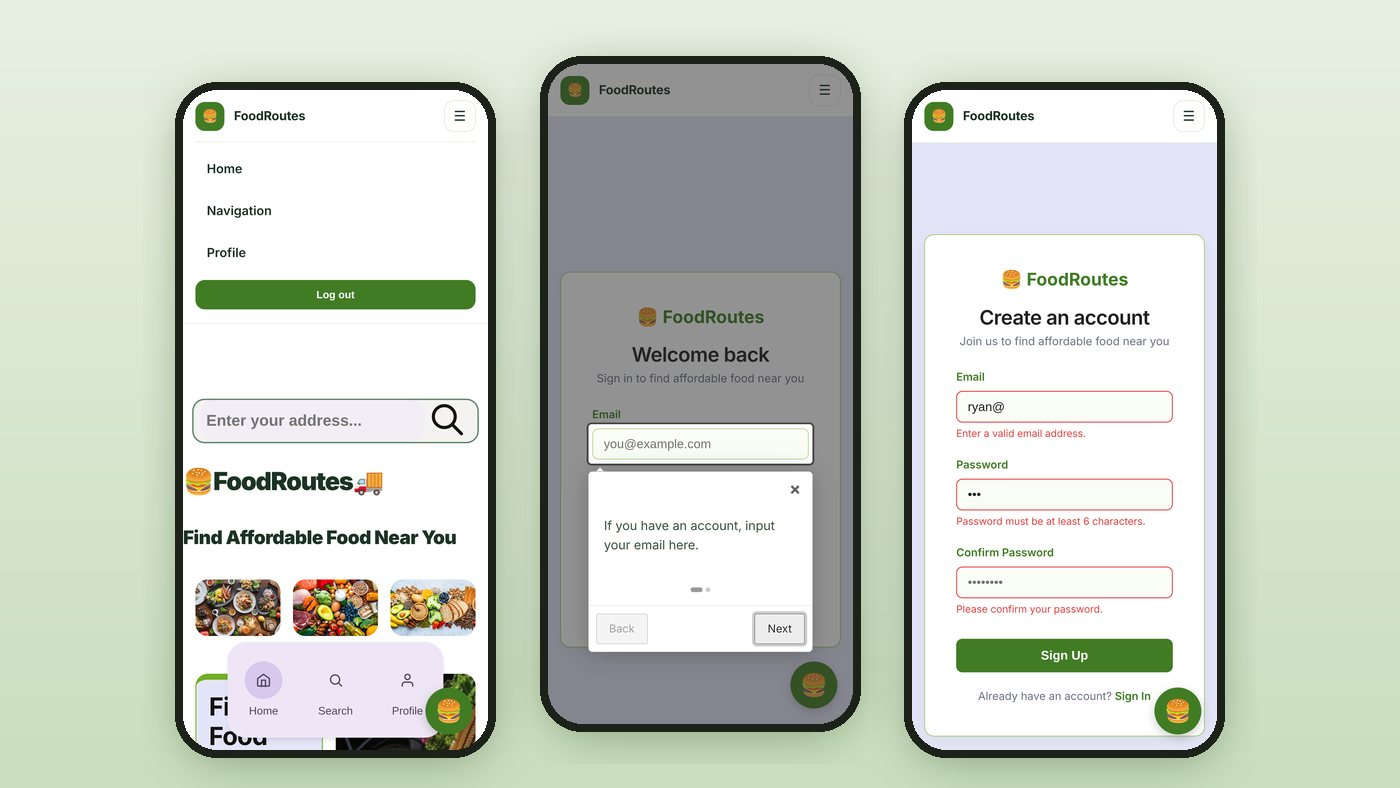
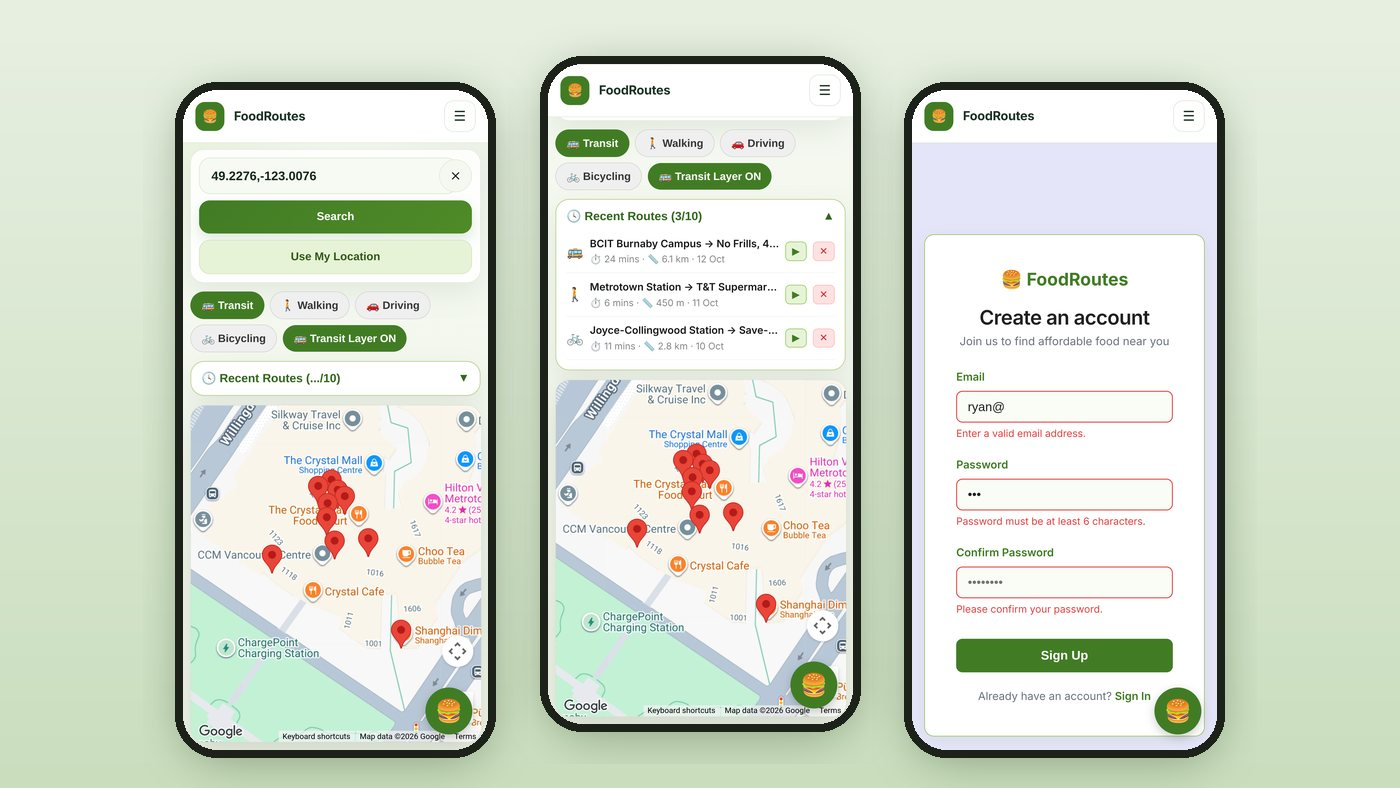
FoodRoutes: add map and saved-routes screenshots, new cover
Two phone screenshots from the real map page: nearby grocery stores
around Metrotown with the travel-mode buttons and transit-layer toggle,
and the saved-routes panel (shown with example routes, since the team's
Supabase project is gone). The cover now leads with them. A drawn route
isn't shown: the available Maps key has Directions blocked until billing
is enabled on its Google Cloud project.

Changed region(s): [[0.1229, 0.0609, 0.6143, 0.9746], [0.1843, 0.1218, 0.215, 0.1523]]

diff --git a/projects/foodroutes.html b/projects/foodroutes.html
@@ -249,7 +249,7 @@
           <figure class="case-cover" data-vt="foodroutes">
             <img
               src="../assets/fr-cover.jpg"
-              alt="Three FoodRoutes phone screens: the signed-in menu over the home page, the login page with a guided-tour tooltip, and the sign-up form showing validation errors"
+              alt="Three FoodRoutes phone screens: the map with nearby grocery stores in Burnaby and the travel-mode buttons, the saved-routes list, and the sign-up form showing validation errors"
               width="1400"
               height="788"
               fetchpriority="high"
@@ -314,6 +314,20 @@
             <div class="project-section reveal">
               <h2>The app</h2>
               <div class="screenshots-grid">
+                <figure class="reveal">
+                  <img src="../assets/fr-map.jpg" alt="Map page on a phone: the location search, Transit, Walking, Driving and Bicycling buttons, a Transit Layer toggle, and a map of Metrotown in Burnaby with red markers on nearby grocery stores" width="520" height="1125" loading="lazy" decoding="async" />
+                  <figcaption>
+                    <strong>The map</strong><br />Nearby stores around
+                    Metrotown, with the travel modes and transit layer above.
+                  </figcaption>
+                </figure>
+                <figure class="reveal">
+                  <img src="../assets/fr-routes.jpg" alt="Recent Routes panel open on a phone, showing 3 of 10 saved routes, each with a travel-mode icon, origin and destination, time, distance and date, and replay and delete buttons" width="520" height="1125" loading="lazy" decoding="async" />
+                  <figcaption>
+                    <strong>Saved routes</strong><br />Up to 10 per user, each
+                    one replayable or deletable. Shown with example routes.
+                  </figcaption>
+                </figure>
                 <figure class="reveal">
                   <img src="../assets/fr-login.jpg" alt="Login screen on a phone with a guided-tour tooltip pointing at the email field: If you have an account, input your email here" width="520" height="1125" loading="lazy" decoding="async" />
                   <figcaption>

diff --git a/projects.html b/projects.html
@@ -535,7 +535,7 @@
               <div class="project-accordion-panel" id="project-panel-foodroutes">
                 <div class="project-accordion-panel-inner">
                   <a class="project-accordion-media" href="projects/foodroutes.html" data-vt="foodroutes" aria-label="Open FoodRoutes">
-                    <img src="assets/fr-cover.jpg" alt="Three FoodRoutes phone screens: the signed-in menu, the login page with a guided-tour tooltip, and sign-up validation errors" loading="lazy" decoding="async" width="1400" height="788">
+                    <img src="assets/fr-cover.jpg" alt="Three FoodRoutes phone screens: the map with nearby grocery stores in Burnaby and the travel-mode buttons, the saved-routes list, and the sign-up form showing validation errors" loading="lazy" decoding="async" width="1400" height="788">
                   </a>
                   <div class="project-accordion-copy">
                     <p>

diff --git a/index.html b/index.html
@@ -617,7 +617,7 @@
               </li>
               <li class="work-card" id="work-foodroutes">
                 <a class="work-media" href="projects/foodroutes.html" data-vt="foodroutes" aria-label="Read the FoodRoutes case study">
-                  <img src="assets/fr-cover.jpg" alt="Three FoodRoutes phone screens: the signed-in menu, the login page with a guided-tour tooltip, and sign-up validation errors" loading="lazy" decoding="async" width="1400" height="788" />
+                  <img src="assets/fr-cover.jpg" alt="Three FoodRoutes phone screens: the map with nearby grocery stores in Burnaby and the travel-mode buttons, the saved-routes list, and the sign-up form showing validation errors" loading="lazy" decoding="async" width="1400" height="788" />
                 </a>
                 <div class="work-body">
                   <p class="work-meta">
